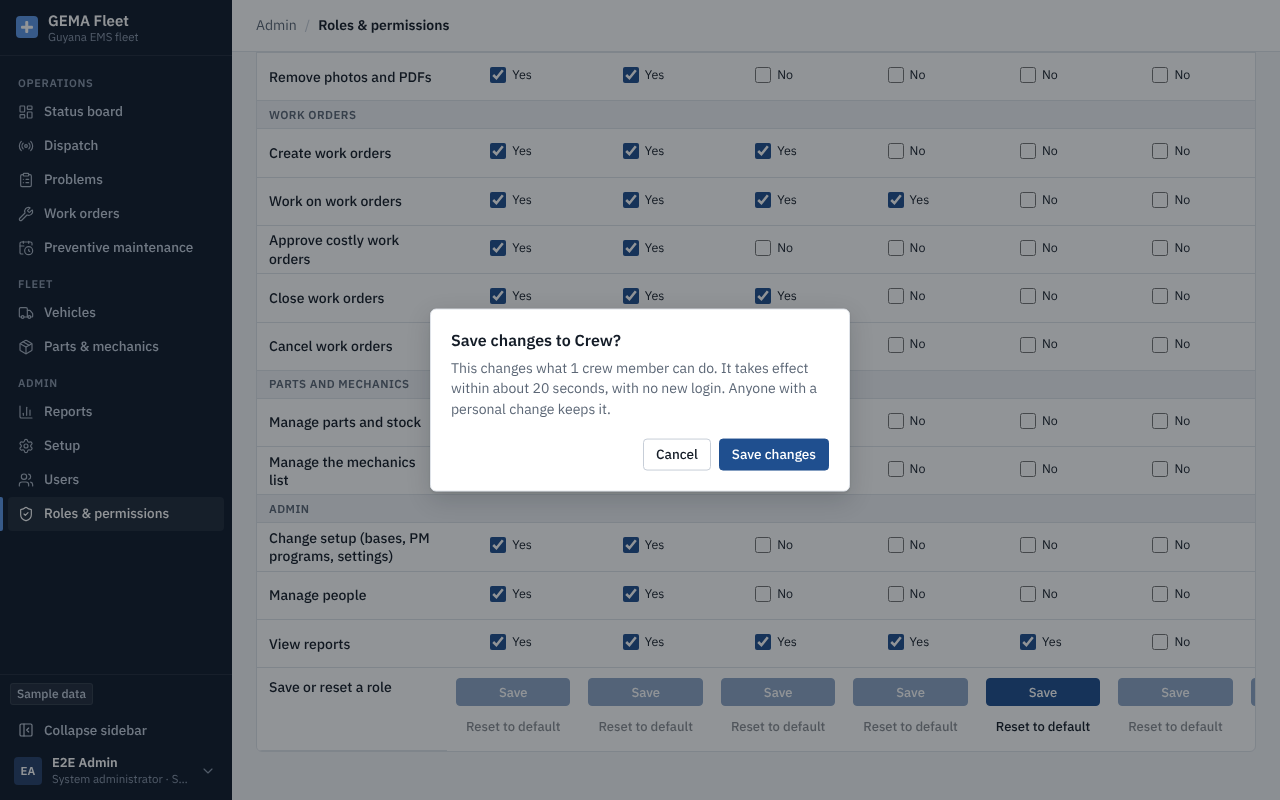
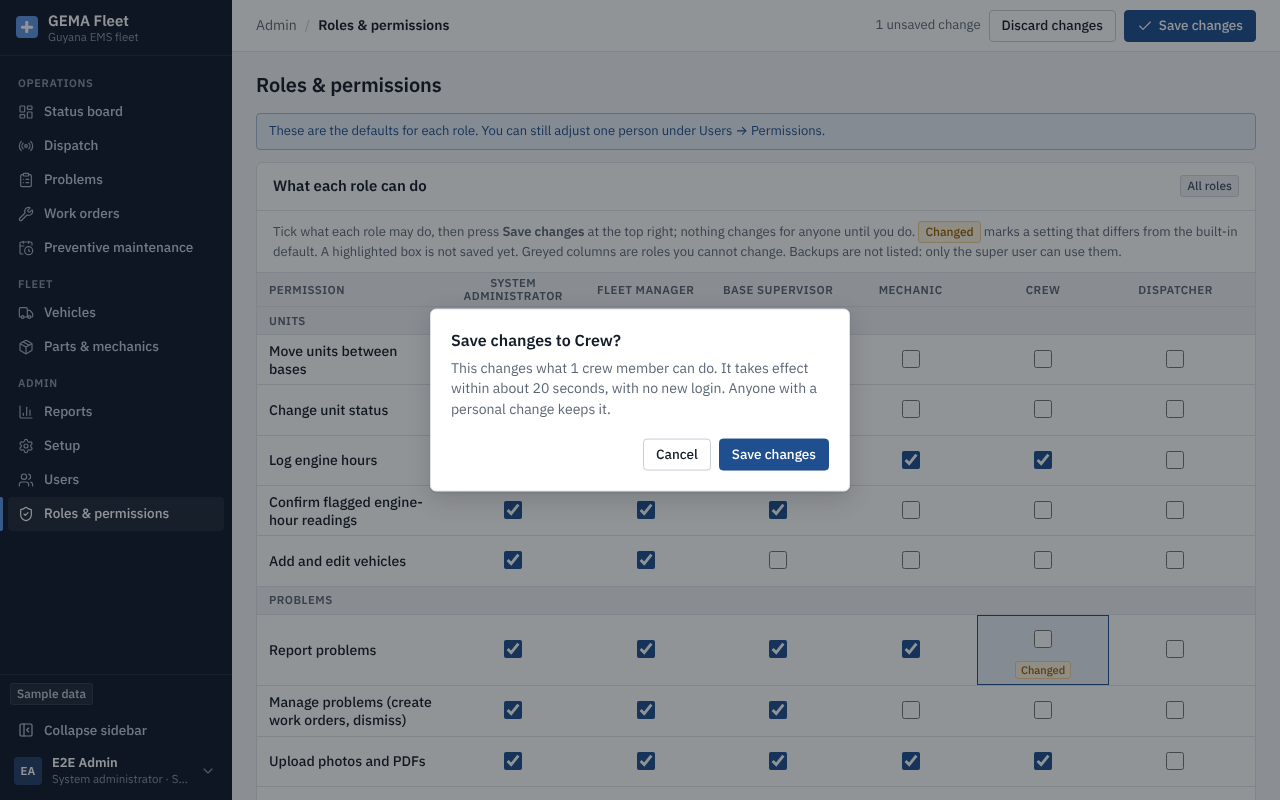
Roles & permissions: plain tick boxes (no Yes/No words); Save changes stays in the top bar on phones
Claude-Session: https://claude.ai/code/session_01YXYTtYruCkDW5r8aiUCHL9

diff --git a/src/client/roles-ui.ts b/src/client/roles-ui.ts
@@ -9,7 +9,7 @@ import { PERM_GROUPS, SUPER_ONLY_KEYS, can as canActor, editableRoles, hasPerm, 
 import { D, S, scheduleRender } from './state';
 import { esc, toast, run } from './util';
 import { VIEWS } from './registry';
-import { pageHead } from './bits';
+import { pageHead, actBtn } from './bits';
 import { confirmUI } from './dom';
 import { saveAllRolePermissions } from './actions';
 import { usersCache, loadUsers } from './users-ui';
@@ -53,7 +53,7 @@ VIEWS.roles = function () {
     const dis = !ed || !!why;
     const lbl = `${ROLES[r]}: ${label}`;
     const uns = !!draft[r] && k in draft[r];
-    return `<td class="rc${ed ? '' : ' ro'}${uns ? ' unsaved' : ''}" data-role="${r}"><label class="rcell"><input type="checkbox" id="rp-${r}-${k}" data-rp="1" data-role="${r}" data-key="${k}" ${on ? 'checked' : ''} ${dis ? 'disabled' : ''} aria-label="${esc(lbl)}" ${why ? `title="${esc(why)}"` : ''}><span class="rstate">${on ? 'Yes' : 'No'}</span></label>${on !== def ? `<span class="badge warn rchg" id="rchg-${r}-${k}" title="Changed from default">Changed<span class="sr"> from default</span></span>` : ''}</td>`;
+    return `<td class="rc${ed ? '' : ' ro'}${uns ? ' unsaved' : ''}" data-role="${r}"><label class="rcell"><input type="checkbox" id="rp-${r}-${k}" data-rp="1" data-role="${r}" data-key="${k}" ${on ? 'checked' : ''} ${dis ? 'disabled' : ''} aria-label="${esc(lbl)}" ${why ? `title="${esc(why)}"` : ''}></label>${on !== def ? `<span class="badge warn rchg" id="rchg-${r}-${k}" title="Changed from default">Changed<span class="sr"> from default</span></span>` : ''}</td>`;
   }).join('')}</tr>`).join('')).join('');
   const foot = `<tr class="rfoot"><th scope="row" class="pl">Back to the built-in defaults<span class="tiny muted rfhint">Fills in the defaults; press Save changes to keep them.</span></th>${ROLE_LIST.map((r) => {
     const ed = edit.includes(r as any);
@@ -63,7 +63,7 @@ VIEWS.roles = function () {
   const nChg = dirty.reduce((n, r) => n + Object.keys(draft[r]).length, 0);
   const acts = `${dirty.length ? `<span class="small muted rdirty" id="rolesDirty" role="status">${nChg} unsaved ${nChg === 1 ? 'change' : 'changes'}</span>` : '<span class="sr" role="status"></span>'}
     <button class="btn" type="button" data-act="roles-discard" id="rolesDiscard" ${dirty.length ? '' : 'disabled'}>Discard changes</button>
-    <button class="btn primary" type="button" data-act="roles-save" id="rolesSave" ${dirty.length ? '' : 'disabled'}>Save changes</button>`;
+    ${actBtn('Save changes', { id: 'rolesSave', act: 'roles-save', primary: true, icon: 'check', cls: 'keeplbl', disabled: !dirty.length })}`;
   return `${pageHead('Roles & permissions', { acts })}
   <div class="warnbox info" id="rolesNote">These are the defaults for each role. You can still adjust one person under Users → Permissions.</div>
   <div class="panel"><div class="ph"><h2>What each role can do</h2><span class="badge">${S.me!.isSuperuser ? 'All roles' : 'Fleet manager and below'}</span></div>

diff --git a/src/client/style.css b/src/client/style.css
@@ -135,6 +135,8 @@ body.loggedout .main{margin-left:0}
   .crumbs .grp{display:none}
   .topact .btn.primary{width:36px;padding:0}
   .topact .btn .lbl{display:none}
+  .topact .btn.primary.keeplbl{width:auto;padding:0 12px}
+  .topact .btn.keeplbl .lbl{display:inline}
   .vhead h1.pt{position:absolute;width:1px;height:1px;overflow:hidden;clip:rect(0 0 0 0);white-space:nowrap}
 }
 @media (prefers-reduced-motion: no-preference){
@@ -531,10 +533,9 @@ table.rolemx th.rc .rname{display:block;white-space:normal;line-height:1.2}
 table.rolemx th.rc .rro{display:block;margin-top:2px;font:500 10.5px/1.2 var(--sans);text-transform:none;letter-spacing:0;color:var(--muted)}
 table.rolemx tr.grp th{height:28px;background:var(--surface-2);font:600 11.5px/1.2 var(--sans);text-transform:uppercase;letter-spacing:.04em;color:var(--muted);text-align:left;position:sticky;left:0}
 table.rolemx td.ro,table.rolemx th.rc:has(.rro){background:var(--surface-2);color:var(--muted)}
-.rcell{display:inline-flex;align-items:center;gap:6px;cursor:pointer}
+.rcell{display:inline-flex;align-items:center;justify-content:center;padding:4px;cursor:pointer}
+.rcell input{width:18px;height:18px;margin:0}
 .rcell input:disabled{cursor:not-allowed}
-.rcell input:disabled + .rstate{color:var(--muted)}
-.rstate{font-size:12.5px;min-width:24px;text-align:left}
 .rchg{display:flex;width:max-content;margin:3px auto 0;font-size:11px;padding:0 5px}
 .rbtns{display:flex;flex-direction:column;gap:6px;align-items:stretch}
 table.rolemx tr.rfoot td,table.rolemx tr.rfoot th{padding-top:10px;padding-bottom:10px;vertical-align:top}
